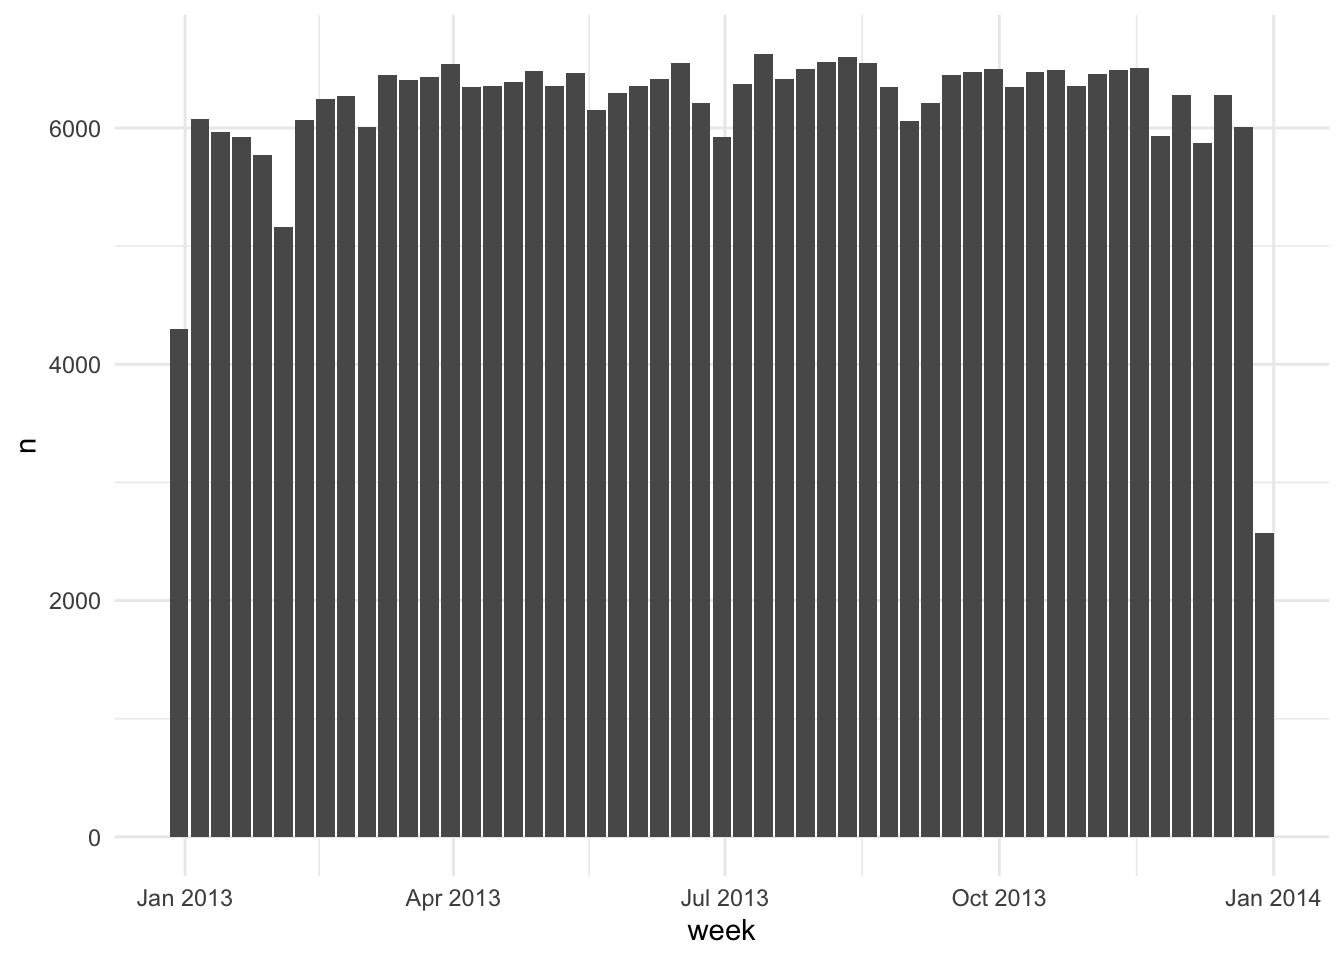
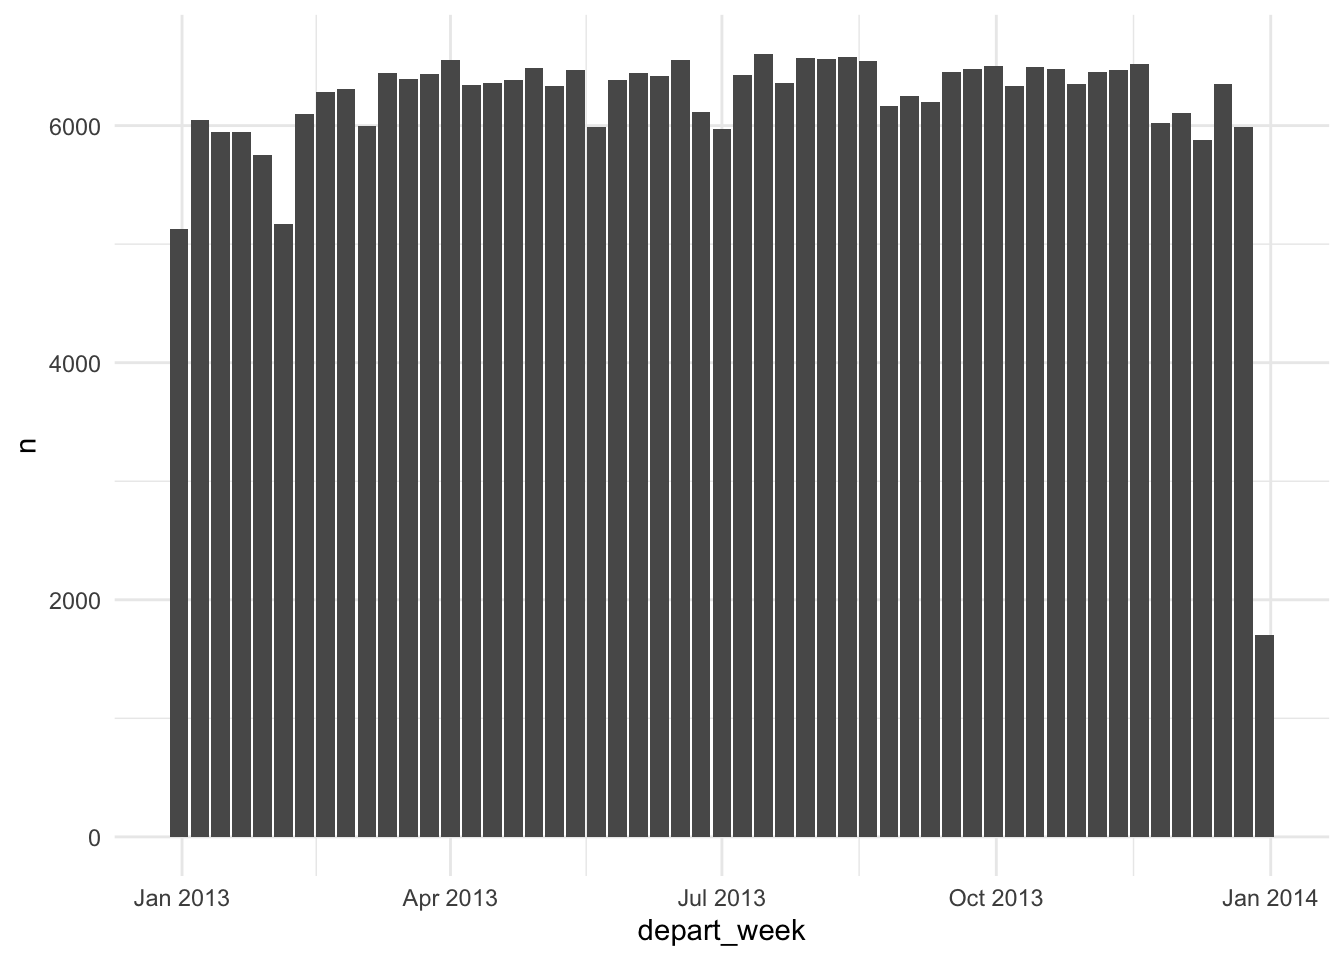
content

diff --git a/blogpost.html b/blogpost.html
@@ -194,8 +194,18 @@ $ minute                                &lt;double&gt; 15, 29, 40, 45, 0, 58, 0,
 $ time_hour &lt;timestamp[us, tz=America/New_York]&gt; 2013-01-01 05:00:00, 2013-01-01…</code></pre>
 </div>
 </div>
-<p>Questions: * What was the busiest week for JFK Airport? Separate for departures and arrivals.</p>
-<p>We need to build some new variables: * several timestampt variables: * <code>depart_time</code>: departure time</p>
+<p>Questions:</p>
+<ul>
+<li>What was the busiest week for JFK Airport? Separate for departures and arrivals.</li>
+</ul>
+<p>We need to build some new variables:</p>
+<ul>
+<li>several timestampt variables:
+<ul>
+<li><code>depart_time</code>: departure time</li>
+<li></li>
+</ul></li>
+</ul>
 <p>Let’s investigate the <code>dep_time</code>, data set description informs us the format should be HHMM or HMM, and the timezone is local.</p>
 <p>We notice the departure and arrival times are written in a 3 or 4-digit formats, namely <code>5:17</code> is written as <code>517</code> while <code>22:09</code> appears as <code>2209</code>. It would be easier to work with them in a format where the digits for hours and minutes are separated by <code>":"</code> or any other separator for that matter. Let’s create the separated time variable. Let’s first make sure all values <code>dep_time</code> are 3 or 4 digits or <code>NA</code>.</p>
 <div class="cell">
@@ -305,12 +315,12 @@ $ time_hour &lt;timestamp[us, tz=America/New_York]&gt; 2013-01-01 05:00:00, 2013
 <span id="cb19-4"><a href="#cb19-4" aria-hidden="true" tabindex="-1"></a>    <span class="at">dep_time =</span> <span class="fu">as.character</span>(dep_time),</span>
 <span id="cb19-5"><a href="#cb19-5" aria-hidden="true" tabindex="-1"></a>    <span class="at">dep_time_length =</span> <span class="fu">nchar</span>(dep_time)</span>
 <span id="cb19-6"><a href="#cb19-6" aria-hidden="true" tabindex="-1"></a>  ) <span class="sc">%&gt;%</span> </span>
-<span id="cb19-7"><a href="#cb19-7" aria-hidden="true" tabindex="-1"></a>  <span class="fu">filter</span>(dep_time_length <span class="sc">&gt;=</span> <span class="dv">3</span>) <span class="sc">%&gt;%</span> </span>
+<span id="cb19-7"><a href="#cb19-7" aria-hidden="true" tabindex="-1"></a>  <span class="fu">filter</span>(dep_time_length <span class="sc">&gt;=</span> <span class="dv">3</span> <span class="sc">|</span> <span class="fu">is.na</span>(dep_time)) <span class="sc">%&gt;%</span> </span>
 <span id="cb19-8"><a href="#cb19-8" aria-hidden="true" tabindex="-1"></a>  <span class="fu">mutate</span>(<span class="at">dep_time_sep =</span> <span class="fu">sep_hour_minute</span>(dep_time)) <span class="sc">%&gt;%</span> </span>
 <span id="cb19-9"><a href="#cb19-9" aria-hidden="true" tabindex="-1"></a>  <span class="fu">collect</span>()</span>
 <span id="cb19-10"><a href="#cb19-10" aria-hidden="true" tabindex="-1"></a>flights2</span></code><button title="Copy to Clipboard" class="code-copy-button"><i class="bi"></i></button></pre></div>
 <div class="cell-output cell-output-stdout">
-<pre><code># A tibble: 327,640 × 21
+<pre><code># A tibble: 335,895 × 21
     year month   day dep_time sched_dep_time dep_delay arr_time sched_arr_time
    &lt;int&gt; &lt;int&gt; &lt;int&gt; &lt;chr&gt;             &lt;int&gt;     &lt;dbl&gt;    &lt;int&gt;          &lt;int&gt;
  1  2013     1     1 517                 515         2      830            819
@@ -323,7 +333,7 @@ $ time_hour &lt;timestamp[us, tz=America/New_York]&gt; 2013-01-01 05:00:00, 2013
  8  2013     1     1 557                 600        -3      709            723
  9  2013     1     1 557                 600        -3      838            846
 10  2013     1     1 558                 600        -2      753            745
-# … with 327,630 more rows, and 13 more variables: arr_delay &lt;dbl&gt;,
+# … with 335,885 more rows, and 13 more variables: arr_delay &lt;dbl&gt;,
 #   carrier &lt;chr&gt;, flight &lt;int&gt;, tailnum &lt;chr&gt;, origin &lt;chr&gt;, dest &lt;chr&gt;,
 #   air_time &lt;dbl&gt;, distance &lt;dbl&gt;, hour &lt;dbl&gt;, minute &lt;dbl&gt;, time_hour &lt;dttm&gt;,
 #   dep_time_length &lt;int&gt;, dep_time_sep &lt;chr&gt;</code></pre>
@@ -341,7 +351,7 @@ $ time_hour &lt;timestamp[us, tz=America/New_York]&gt; 2013-01-01 05:00:00, 2013
 <span id="cb21-8"><a href="#cb21-8" aria-hidden="true" tabindex="-1"></a>  <span class="fu">collect</span>()</span>
 <span id="cb21-9"><a href="#cb21-9" aria-hidden="true" tabindex="-1"></a>flights_date_time</span></code><button title="Copy to Clipboard" class="code-copy-button"><i class="bi"></i></button></pre></div>
 <div class="cell-output cell-output-stdout">
-<pre><code># A tibble: 327,640 × 1
+<pre><code># A tibble: 335,895 × 1
    depart_time        
    &lt;dttm&gt;             
  1 2013-06-08 18:27:00
@@ -354,36 +364,37 @@ $ time_hour &lt;timestamp[us, tz=America/New_York]&gt; 2013-01-01 05:00:00, 2013
  8 2013-06-08 18:36:00
  9 2013-06-08 18:37:00
 10 2013-06-08 18:39:00
-# … with 327,630 more rows</code></pre>
+# … with 335,885 more rows</code></pre>
 </div>
 </div>
 <p>We can continue by identifying the week for each flight. We can do that with the newly added <code>floor_date()</code> binding:</p>
 <div class="cell">
 <div class="sourceCode cell-code" id="cb23"><pre class="sourceCode r code-with-copy"><code class="sourceCode r"><span id="cb23-1"><a href="#cb23-1" aria-hidden="true" tabindex="-1"></a>a <span class="ot">&lt;-</span> flights_date_time <span class="sc">%&gt;%</span> </span>
 <span id="cb23-2"><a href="#cb23-2" aria-hidden="true" tabindex="-1"></a>  <span class="fu">arrow_table</span>() <span class="sc">%&gt;%</span> </span>
-<span id="cb23-3"><a href="#cb23-3" aria-hidden="true" tabindex="-1"></a>  <span class="fu">mutate</span>(<span class="at">week =</span> <span class="fu">floor_date</span>(depart_time, <span class="at">unit =</span> <span class="st">"week"</span>)) <span class="sc">%&gt;%</span> </span>
-<span id="cb23-4"><a href="#cb23-4" aria-hidden="true" tabindex="-1"></a>  <span class="fu">count</span>(week) <span class="sc">%&gt;%</span> </span>
-<span id="cb23-5"><a href="#cb23-5" aria-hidden="true" tabindex="-1"></a>  <span class="fu">collect</span>()</span>
-<span id="cb23-6"><a href="#cb23-6" aria-hidden="true" tabindex="-1"></a>a</span></code><button title="Copy to Clipboard" class="code-copy-button"><i class="bi"></i></button></pre></div>
+<span id="cb23-3"><a href="#cb23-3" aria-hidden="true" tabindex="-1"></a>  <span class="fu">mutate</span>(<span class="at">depart_week =</span> <span class="fu">floor_date</span>(depart_time, <span class="at">unit =</span> <span class="st">"week"</span>, <span class="at">week_start =</span> <span class="dv">1</span>)) <span class="sc">%&gt;%</span> </span>
+<span id="cb23-4"><a href="#cb23-4" aria-hidden="true" tabindex="-1"></a>  <span class="fu">count</span>(depart_week) <span class="sc">%&gt;%</span> </span>
+<span id="cb23-5"><a href="#cb23-5" aria-hidden="true" tabindex="-1"></a>  <span class="fu">arrange</span>(depart_week) <span class="sc">%&gt;%</span> </span>
+<span id="cb23-6"><a href="#cb23-6" aria-hidden="true" tabindex="-1"></a>  <span class="fu">collect</span>()</span>
+<span id="cb23-7"><a href="#cb23-7" aria-hidden="true" tabindex="-1"></a>a</span></code><button title="Copy to Clipboard" class="code-copy-button"><i class="bi"></i></button></pre></div>
 <div class="cell-output cell-output-stdout">
 <pre><code># A tibble: 54 × 2
-   week                    n
+   depart_week             n
    &lt;dttm&gt;              &lt;int&gt;
- 1 2013-06-02 00:00:00  6352
- 2 2013-06-09 00:00:00  6413
- 3 2013-06-16 00:00:00  6550
- 4 NA                     29
- 5 2013-06-23 00:00:00  6208
- 6 2013-06-30 00:00:00  5924
- 7 2013-07-07 00:00:00  6372
- 8 2013-02-17 00:00:00  6245
- 9 2013-02-24 00:00:00  6271
-10 2013-03-03 00:00:00  6010
+ 1 2012-12-31 00:00:00  5127
+ 2 2013-01-07 00:00:00  6051
+ 3 2013-01-14 00:00:00  5947
+ 4 2013-01-21 00:00:00  5947
+ 5 2013-01-28 00:00:00  5755
+ 6 2013-02-04 00:00:00  5171
+ 7 2013-02-11 00:00:00  6094
+ 8 2013-02-18 00:00:00  6283
+ 9 2013-02-25 00:00:00  6313
+10 2013-03-04 00:00:00  6000
 # … with 44 more rows</code></pre>
 </div>
 </div>
 <div class="cell">
-<div class="sourceCode cell-code" id="cb25"><pre class="sourceCode r code-with-copy"><code class="sourceCode r"><span id="cb25-1"><a href="#cb25-1" aria-hidden="true" tabindex="-1"></a><span class="fu">ggplot</span>(a, <span class="fu">aes</span>(week, n)) <span class="sc">+</span></span>
+<div class="sourceCode cell-code" id="cb25"><pre class="sourceCode r code-with-copy"><code class="sourceCode r"><span id="cb25-1"><a href="#cb25-1" aria-hidden="true" tabindex="-1"></a><span class="fu">ggplot</span>(a, <span class="fu">aes</span>(depart_week, n)) <span class="sc">+</span></span>
 <span id="cb25-2"><a href="#cb25-2" aria-hidden="true" tabindex="-1"></a>  <span class="fu">geom_col</span>() <span class="sc">+</span></span>
 <span id="cb25-3"><a href="#cb25-3" aria-hidden="true" tabindex="-1"></a>  <span class="fu">theme_minimal</span>()</span></code><button title="Copy to Clipboard" class="code-copy-button"><i class="bi"></i></button></pre></div>
 <div class="cell-output cell-output-stderr">
@@ -391,6 +402,46 @@ $ time_hour &lt;timestamp[us, tz=America/New_York]&gt; 2013-01-01 05:00:00, 2013
 </div>
 <div class="cell-output-display">
 <p><img src="blogpost_files/figure-html/unnamed-chunk-10-1.png" class="img-fluid" width="672"></p>
+</div>
+</div>
+<div class="cell">
+<div class="sourceCode cell-code" id="cb27"><pre class="sourceCode r code-with-copy"><code class="sourceCode r"><span id="cb27-1"><a href="#cb27-1" aria-hidden="true" tabindex="-1"></a>my_awesome_function <span class="ot">&lt;-</span> <span class="cf">function</span>(dataframe, var) {</span>
+<span id="cb27-2"><a href="#cb27-2" aria-hidden="true" tabindex="-1"></a>  dataframe <span class="sc">%&gt;%</span> </span>
+<span id="cb27-3"><a href="#cb27-3" aria-hidden="true" tabindex="-1"></a>    <span class="fu">mutate</span>(</span>
+<span id="cb27-4"><a href="#cb27-4" aria-hidden="true" tabindex="-1"></a>      <span class="at">x =</span> <span class="fu">as.character</span>({{ var }}),</span>
+<span id="cb27-5"><a href="#cb27-5" aria-hidden="true" tabindex="-1"></a>      <span class="at">time_length =</span> <span class="fu">nchar</span>(x)</span>
+<span id="cb27-6"><a href="#cb27-6" aria-hidden="true" tabindex="-1"></a>    ) <span class="sc">%&gt;%</span> </span>
+<span id="cb27-7"><a href="#cb27-7" aria-hidden="true" tabindex="-1"></a>    <span class="fu">filter</span>(time_length <span class="sc">&gt;=</span> <span class="dv">3</span> <span class="sc">|</span> <span class="fu">is.na</span>(x)) <span class="sc">%&gt;%</span> </span>
+<span id="cb27-8"><a href="#cb27-8" aria-hidden="true" tabindex="-1"></a>    <span class="fu">mutate</span>(</span>
+<span id="cb27-9"><a href="#cb27-9" aria-hidden="true" tabindex="-1"></a>      <span class="at">time_sep =</span> <span class="fu">sep_hour_minute</span>(x),</span>
+<span id="cb27-10"><a href="#cb27-10" aria-hidden="true" tabindex="-1"></a>      <span class="at">time_string =</span> stringr<span class="sc">::</span><span class="fu">str_c</span>(year, month, day, time_sep, <span class="at">sep =</span> <span class="st">"-"</span>),</span>
+<span id="cb27-11"><a href="#cb27-11" aria-hidden="true" tabindex="-1"></a>      <span class="at">time =</span> <span class="fu">ymd_hm</span>(time_string)</span>
+<span id="cb27-12"><a href="#cb27-12" aria-hidden="true" tabindex="-1"></a>    )</span>
+<span id="cb27-13"><a href="#cb27-13" aria-hidden="true" tabindex="-1"></a>}</span></code><button title="Copy to Clipboard" class="code-copy-button"><i class="bi"></i></button></pre></div>
+</div>
+<div class="cell">
+<div class="sourceCode cell-code" id="cb28"><pre class="sourceCode r code-with-copy"><code class="sourceCode r"><span id="cb28-1"><a href="#cb28-1" aria-hidden="true" tabindex="-1"></a>flights <span class="sc">%&gt;%</span> </span>
+<span id="cb28-2"><a href="#cb28-2" aria-hidden="true" tabindex="-1"></a>  <span class="fu">arrow_table</span>() <span class="sc">%&gt;%</span></span>
+<span id="cb28-3"><a href="#cb28-3" aria-hidden="true" tabindex="-1"></a>  <span class="fu">my_awesome_function</span>(dep_time) <span class="sc">%&gt;%</span> </span>
+<span id="cb28-4"><a href="#cb28-4" aria-hidden="true" tabindex="-1"></a>  <span class="fu">collect</span>()</span></code><button title="Copy to Clipboard" class="code-copy-button"><i class="bi"></i></button></pre></div>
+<div class="cell-output cell-output-stdout">
+<pre><code># A tibble: 335,895 × 24
+    year month   day dep_time sched_dep_time dep_delay arr_time sched_arr_time
+   &lt;int&gt; &lt;int&gt; &lt;int&gt;    &lt;int&gt;          &lt;int&gt;     &lt;dbl&gt;    &lt;int&gt;          &lt;int&gt;
+ 1  2013     1     1      517            515         2      830            819
+ 2  2013     1     1      533            529         4      850            830
+ 3  2013     1     1      542            540         2      923            850
+ 4  2013     1     1      544            545        -1     1004           1022
+ 5  2013     1     1      554            600        -6      812            837
+ 6  2013     1     1      554            558        -4      740            728
+ 7  2013     1     1      555            600        -5      913            854
+ 8  2013     1     1      557            600        -3      709            723
+ 9  2013     1     1      557            600        -3      838            846
+10  2013     1     1      558            600        -2      753            745
+# … with 335,885 more rows, and 16 more variables: arr_delay &lt;dbl&gt;,
+#   carrier &lt;chr&gt;, flight &lt;int&gt;, tailnum &lt;chr&gt;, origin &lt;chr&gt;, dest &lt;chr&gt;,
+#   air_time &lt;dbl&gt;, distance &lt;dbl&gt;, hour &lt;dbl&gt;, minute &lt;dbl&gt;, time_hour &lt;dttm&gt;,
+#   x &lt;chr&gt;, time_length &lt;int&gt;, time_sep &lt;chr&gt;, time_string &lt;chr&gt;, time &lt;dttm&gt;</code></pre>
 </div>
 </div>
 </section>
